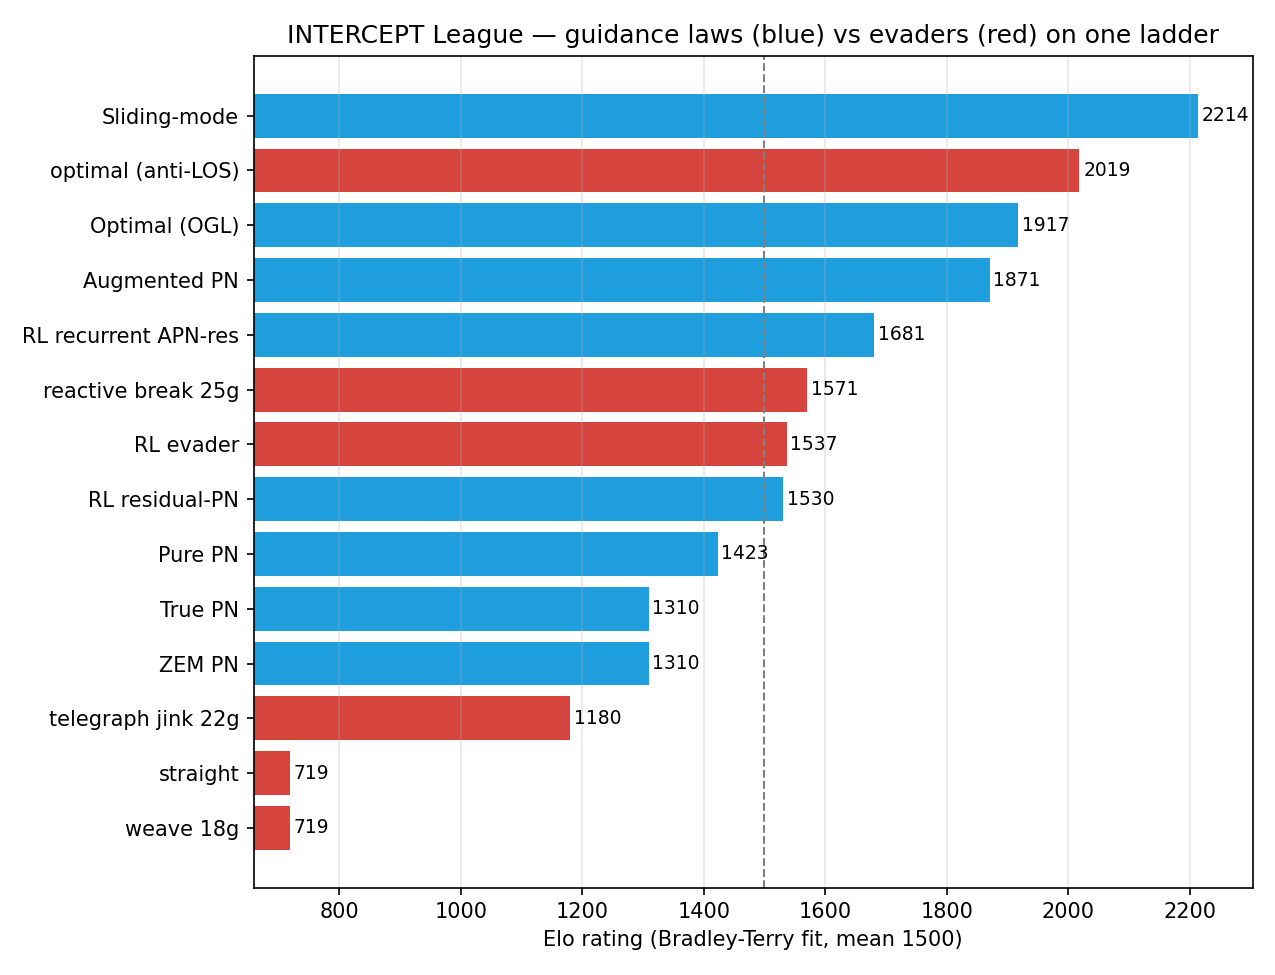
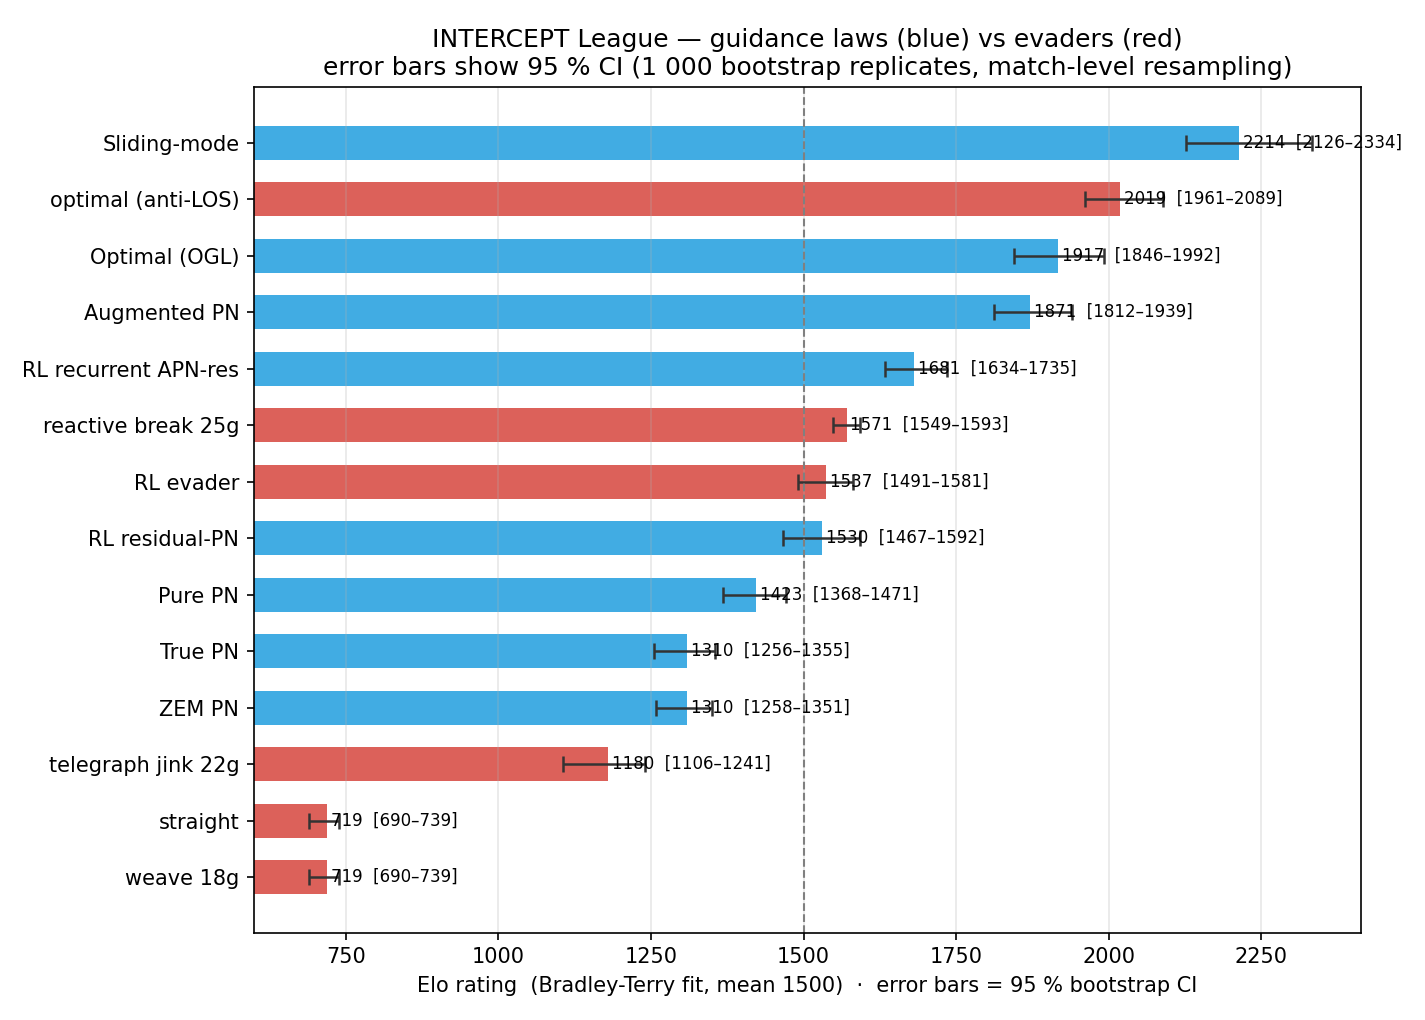
Generate League figures and fix board_dict global
- Run p32_league.py: produces p32_league.png (ladder with 95% CI error
  bars) and p32_rank_stability.png (rank stability heatmap) — both now
  committed so the README images render
- Updated results/p32_league.csv and results/p32_league.md with CI
  columns and statistical-tie flags from the full 40-trial run
- Remove accidental board_dict global from _figure_ladder; pass elo
  dict directly from the board list instead

diff --git a/experiments/p32_league.py b/experiments/p32_league.py
@@ -295,11 +295,12 @@ def scenario_sensitivity(
 def _figure_ladder(board, pursuers, ci, show: bool) -> None:
     """Horizontal bar chart with 95 % bootstrap CI error bars."""
     names = [nm for nm, _ in board][::-1]
-    vals = [board_dict[nm] for nm in names]
+    elo = dict(board)
+    vals = [elo[nm] for nm in names]
     colors = ["#1f9ede" if nm in pursuers else "#d6453d" for nm in names]
 
-    xerr_lo = [board_dict[nm] - ci[nm][0] for nm in names]
-    xerr_hi = [ci[nm][1] - board_dict[nm] for nm in names]
+    xerr_lo = [elo[nm] - ci[nm][0] for nm in names]
+    xerr_hi = [ci[nm][1] - elo[nm] for nm in names]
 
     fig, ax = plt.subplots(figsize=(9.5, 6.8))
     y_pos = np.arange(len(names))
@@ -407,8 +408,6 @@ def main() -> None:
     pursuers, evaders, elo, pint, match_log, pairing_outcomes = run_league(args.trials, args.seed)
     all_names = list(pursuers) + list(evaders)
 
-    global board_dict
-    board_dict = elo
     board = sorted(elo.items(), key=lambda kv: -kv[1])
 
     # --- Bootstrap confidence intervals ---

diff --git a/results/p32_league.md b/results/p32_league.md
@@ -1,16 +1,16 @@
-| rank | participant | side | Elo |
-|---|---|---|---|
-| 1 | Sliding-mode | guidance | 2214 |
-| 2 | optimal (anti-LOS) | evader | 2019 |
-| 3 | Optimal (OGL) | guidance | 1917 |
-| 4 | Augmented PN | guidance | 1871 |
-| 5 | RL recurrent APN-res | guidance | 1681 |
-| 6 | reactive break 25g | evader | 1571 |
-| 7 | RL evader | evader | 1537 |
-| 8 | RL residual-PN | guidance | 1530 |
-| 9 | Pure PN | guidance | 1423 |
-| 10 | True PN | guidance | 1310 |
-| 11 | ZEM PN | guidance | 1310 |
-| 12 | telegraph jink 22g | evader | 1180 |
-| 13 | straight | evader | 719 |
-| 14 | weave 18g | evader | 719 |
+| rank | participant | side | Elo | 95 % CI | statistical tie? |
+|---|---|---|---|---|---|
+| 1 | Sliding-mode | guidance | 2214 | [2126, 2334] |  |
+| 2 | optimal (anti-LOS) | evader | 2019 | [1961, 2089] | yes |
+| 3 | Optimal (OGL) | guidance | 1917 | [1846, 1992] | yes |
+| 4 | Augmented PN | guidance | 1871 | [1812, 1939] | yes |
+| 5 | RL recurrent APN-res | guidance | 1681 | [1634, 1735] | yes |
+| 6 | reactive break 25g | evader | 1571 | [1549, 1593] | yes |
+| 7 | RL evader | evader | 1537 | [1491, 1581] | yes |
+| 8 | RL residual-PN | guidance | 1530 | [1467, 1592] | yes |
+| 9 | Pure PN | guidance | 1423 | [1368, 1471] | yes |
+| 10 | True PN | guidance | 1310 | [1256, 1355] | yes |
+| 11 | ZEM PN | guidance | 1310 | [1258, 1351] | yes |
+| 12 | telegraph jink 22g | evader | 1180 | [1106, 1241] | yes |
+| 13 | straight | evader | 719 | [690, 739] | yes |
+| 14 | weave 18g | evader | 719 | [690, 739] | yes |